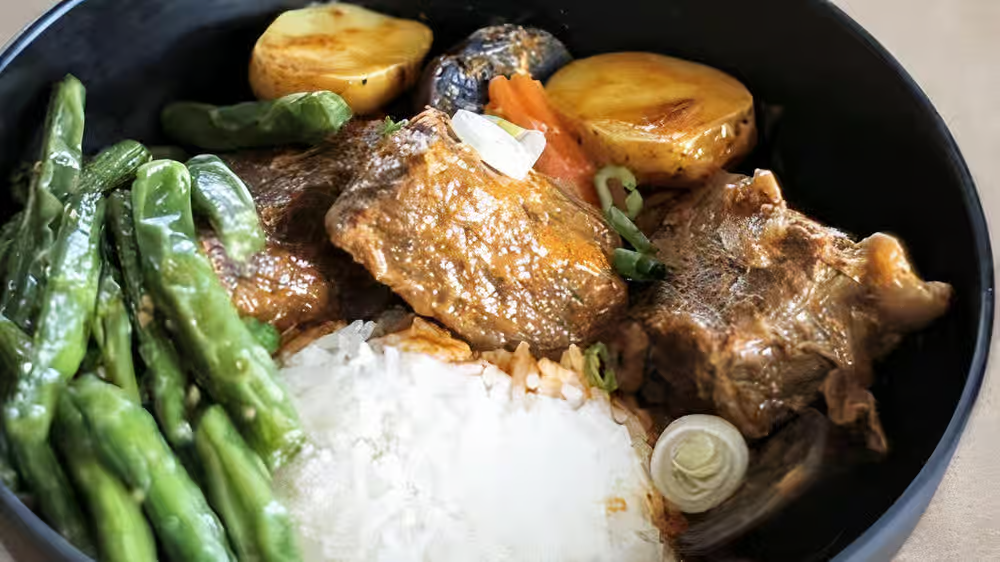
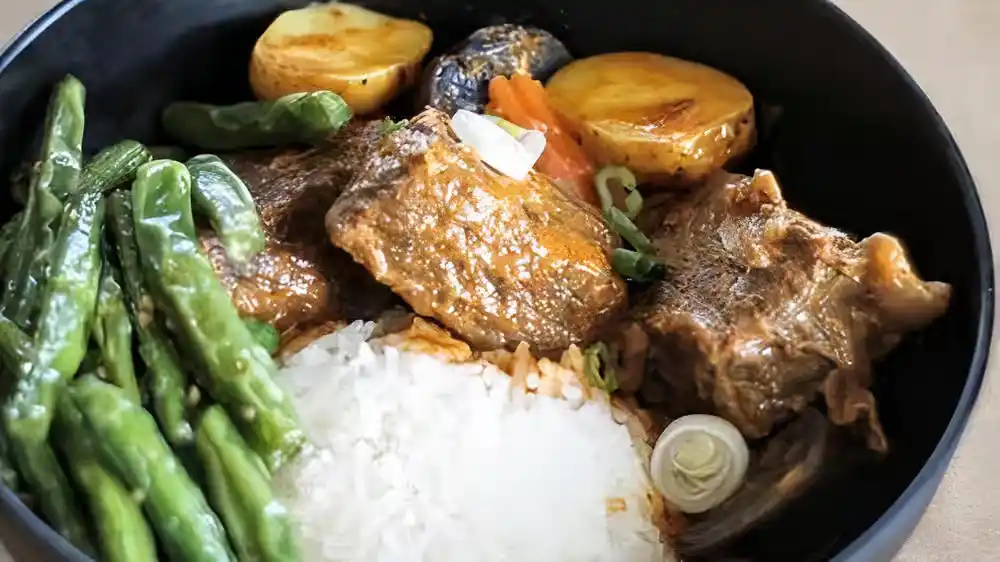
files optimized

diff --git a/components/datav2.tsx b/components/datav2.tsx
@@ -38,7 +38,7 @@ export const restaurantList = {
                 {
                     itemName: "Grandma Slice",
                     image: {
-                        src: "/images/65341/GrandmaSlice.jpeg",
+                        src: "/images/65341/GrandmaSlice.webp",
                         alt: "Grandma Slice",
                     },
                     price: 4.99,
@@ -50,7 +50,7 @@ export const restaurantList = {
                 {
                     itemName: "Margherita Slice",
                     image: {
-                        src: "/images/65341/MargheritaSlice.jpeg",
+                        src: "/images/65341/MargheritaSlice.webp",
                         alt: "Margherita Slice",
                     },
                     price: 4.99,
@@ -61,7 +61,7 @@ export const restaurantList = {
                 {
                     itemName: "Cheese Slice",
                     image: {
-                        src: "/images/65341/CheeseSlice.jpeg",
+                        src: "/images/65341/CheeseSlice.webp",
                         alt: "Cheese Slice",
                     },
                     price: 4.99,
@@ -112,7 +112,7 @@ export const restaurantList = {
                 {
                     itemName: "Sake Pairing",
                     image: {
-                        src: "/images/1243431/sakePairing.jpeg",
+                        src: "/images/1243431/sakePairing.webp",
                         alt: "Sake Pairing",
                     },
                     price: 80,
@@ -134,7 +134,7 @@ export const restaurantList = {
                 {
                     itemName: "Buckwheat Custard",
                     image: {
-                        src: "/images/1243431/BuckwheatCustard.jpeg",
+                        src: "/images/1243431/BuckwheatCustard.webp",
                         alt: "Buckwheat Custard",
                     },
                     price: 20,
@@ -172,7 +172,7 @@ export const restaurantList = {
                 {
                     itemName: "Banana Turmeric Lassi",
                     image: {
-                        src: "/images/18764431/BananaTurmericLassi.jpeg",
+                        src: "/images/18764431/BananaTurmericLassi.webp",
                         alt: "Banana Turmeric Lassi",
                     },
                     price: 8.99,
@@ -184,7 +184,7 @@ export const restaurantList = {
                 {
                     itemName: "Cardamom Mango Lassi",
                     image: {
-                        src: "/images/18764431/CardamomMangoLassi.jpeg",
+                        src: "/images/18764431/CardamomMangoLassi.webp",
                         alt: "Cardamom Mango Lassi",
                     },
                     price: 8.99,
@@ -197,7 +197,7 @@ export const restaurantList = {
                 {
                     itemName: "Cayenne Tamarind Lassi",
                     image: {
-                        src: "/images/18764431/CayenneTamarindLassi.jpeg",
+                        src: "/images/18764431/CayenneTamarindLassi.webp",
                         alt: "Cayenne Tamarind Lassi",
                     },
                     price: 8.99,
@@ -209,7 +209,7 @@ export const restaurantList = {
                 {
                     itemName: "Peppercorn Berry Lassi",
                     image: {
-                        src: "/images/18764431/PepperCornBerryLassi.jpeg",
+                        src: "/images/18764431/PepperCornBerryLassi.webp",
                         alt: "Peppercorn Berry Lassi",
                     },
                     price: 8.99,
@@ -221,7 +221,7 @@ export const restaurantList = {
                 {
                     itemName: "Saag Paneer",
                     image: {
-                        src: "/images/18764431/SaagPaneer.jpeg",
+                        src: "/images/18764431/SaagPaneer.webp",
                         alt: "Saag Paneer Bowl",
                     },
                     price: 15.99,
@@ -232,7 +232,7 @@ export const restaurantList = {
                 {
                     itemName: "Chick’n Tikka Street Wrap",
                     image: {
-                        src: "/images/18764431/ChicknTikkaStreetWrap.jpeg",
+                        src: "/images/18764431/ChicknTikkaStreetWrap.webp",
                         alt: "Chick’n Tikka Street Wrap",
                     },
                     price: 15.99,
@@ -466,7 +466,7 @@ export const restaurantList = {
                 {
                     itemName: "Yum Sum-o",
                     image: {
-                        src: "/images/334624/YumSumO.jpeg",
+                        src: "/images/334624/YumSumO.webp",
                         alt: "Yum Sum-o",
                     },
                     price: 19,
@@ -477,7 +477,7 @@ export const restaurantList = {
                 {
                     itemName: "Yum Tawai",
                     image: {
-                        src: "/images/334624/YumTawai.jpeg",
+                        src: "/images/334624/YumTawai.webp",
                         alt: "Yum Tawai",
                     },
                     price: 17,
@@ -488,7 +488,7 @@ export const restaurantList = {
                 {
                     itemName: "Gaeng Massaman Gae",
                     image: {
-                        src: "/images/334624/YumTawai.jpeg",
+                        src: "/images/334624/YumTawai.webp",
                         alt: "Gaeng Massaman Gae",
                     },
                     price: 56,
@@ -500,7 +500,7 @@ export const restaurantList = {
                 {
                     itemName: "Squid & Pork Jowl",
                     image: {
-                        src: "/images/334624/PorkSquidJowl.jpeg",
+                        src: "/images/334624/PorkSquidJowl.webp",
                         alt: "Squid & Pork Jowl",
                     },
                     price: 29,
